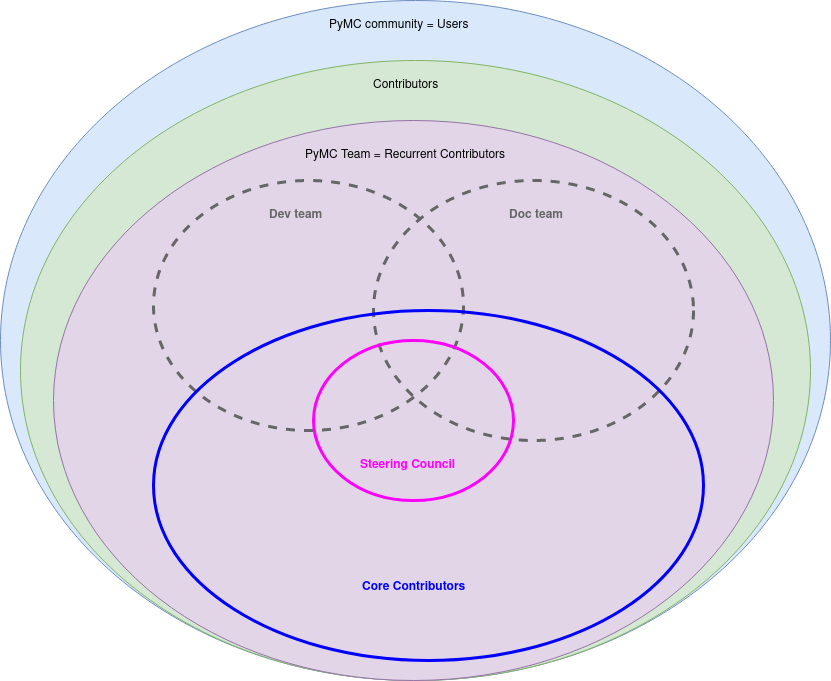
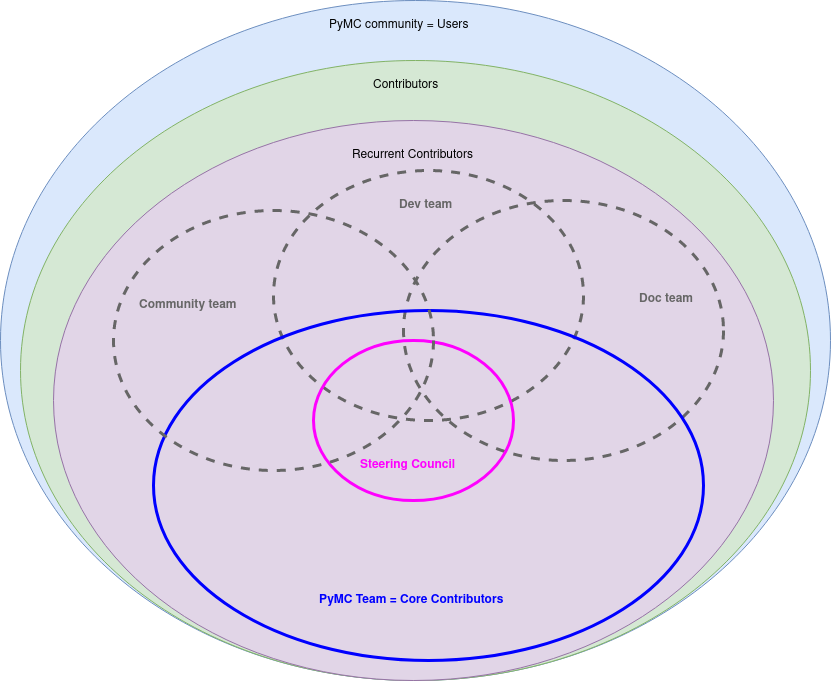
update governance
Addresses the concerns about recurrent contributors
being recognized publicly that were mentioned in
slack and in the monthly meeting

Adds Ben and Reshama who were accepted recently to the list
of core contributors

Adds a note on recurrent contributor without nomination membership.

diff --git a/GOVERNANCE.md b/GOVERNANCE.md
@@ -13,7 +13,7 @@ developed openly and hosted in public GitHub repositories under the
 [pymc-devs GitHub organization](https://github.com/pymc-devs). Examples of
 Project Software include the PyMC library and its documentation, etc.
 The Services run by The Project consist of public websites and web-services
-that are hosted at [http://docs.pymc.io](https://docs.pymc.io)
+that are hosted at [http://www.pymc.io](https://www.pymc.io) and subdomains.
 
 The Project is developed by a team of distributed developers, called
 Contributors. Contributors are individuals who have contributed code,
@@ -21,7 +21,7 @@ documentation, designs or other work to one or more Project repositories,
 or who have done significant work to empower the Community,
 participating on [Discourse](https://discourse.pymc.io),
 organizing [PyMCon](https://pymcon.com) or helped on other platforms and events.
-Anyone can be a Contributor.
+**Anyone can be a Contributor.**
 Contributors can be affiliated with any legal entity or none.
 The foundation of Project participation is openness and transparency.
 
@@ -58,10 +58,10 @@ consensus among the Core Developers with input from the Community. The BDFL
 could, but rarely chose to, override the Core Developers and make a final
 decision on a matter.
 
-While this approach has served us well, as the Project grows and faces more
-legal and financial decisions and interacts with other institutions, we see a
+While this approach served us well, as the Project grew and faced more
+legal and financial decisions and interacted with other institutions, we saw a
 need for a more formal governance and organization model.
-We view this governance model as the formalization of what we are already doing,
+We view this governance model as the formalization of what we were already doing,
 rather than a change in direction.
 
 ## Community and Team Architecture
@@ -76,7 +76,7 @@ also members of all the groups listed above:
 * Steering Council
 * BDFL
 
-Recurring Contributors comprise what we understand as the PyMC Team.
+Core Contributors comprise what we understand as the PyMC Team.
 The Team will generally act as a single unit, except for some specific
 questions where dedicated teams will prevail.
 The PyMC project currently has Developer, Documentation and Community teams.
@@ -86,7 +86,7 @@ The diagram below should help illustrate this idea.
 <img src="docs/community_diagram.png" alt="community diagram" width="600" height="400">
 
 Anyone working with The Project has the responsibility to personally uphold
-the Code of Conduct. Recurrent Contributors have the additional responsibility
+the Code of Conduct. Core Contributors have the additional responsibility
 of _enforcing_ the Code of Conduct to maintain a safe community.
 
 ## Recurring Contributors
@@ -121,25 +121,9 @@ in more detail in a section of its own.
 
 Interns and contractors are added to the team as Recurrent Contributors.
 We consider the selection/hiring process to replace the nomination process.
-
-#### Current Recurring Contributors
-Contributors who are also part of a dedicated team or are institutional
-contributors will have so indicated after their name.
-Dedicated teams only cover a small part of the work needed to
-get the project going, tasks like fundraising, outreach and marketing,
-or organizing events for example don't (yet) have a dedicated team.
-Contributors don't need to be part of any dedicated team.
-
-* Abhipsha Das (docs)
-* Benjamin Vincent (docs - PyMC Labs)
-* Jon Sedar
-* Kaustubh Chaudhari (dev)
-* Larry Dong (dev)
-* Lorenzo Toniazzi (docs)
-* Martin Ingram (community)
-* Olga Khan (docs)
-* Peadar Coyle
-* Raul Maldonado (docs)
+This applies to Google summer of code interns or Google season of
+docs contractors, but also to interns and contractors hired by
+tier 1 Institutional Partners who work mostly on PyMC.
 
 ## Core Contributors
 Core Contributors are those individuals entrusted with the development and
@@ -181,13 +165,14 @@ Contributors who are also part of a dedicated team or are institutional
 contributors will have so indicated after their name.
 
 Dedicated teams only cover a small part of the work needed to
-get the project going, tasks like fundraising, outreach and marketing,
-or organizing events for example don't (yet) have a dedicated team.
+get the project going, tasks like fundraising, outreach or marketing
+for example don't (yet) have a dedicated team.
 Contributors don't need to be part of any dedicated team.
 
 * Adrian Seyboldt (dev - PyMC Labs)
 * Alex Andorra (dev - PyMC Labs)
 * Austin Rochford
+* Benjamin Vincent (docs - PyMC Labs)
 * Bill Engels (dev)
 * Brandon T. Willard (dev)
 * Chris Fonnesbeck (dev, docs)
@@ -205,6 +190,7 @@ Contributors don't need to be part of any dedicated team.
 * Oriol Abril-Pla (docs, community)
 * Osvaldo Martin (dev, docs)
 * Ravin Kumar (dev, community, docs)
+* Reshama Shaikh (community - PyMC Labs)
 * Ricardo Vieira (dev, community)
 * Robert P. Goldman (dev)
 * Sayam Kumar (dev, docs)
